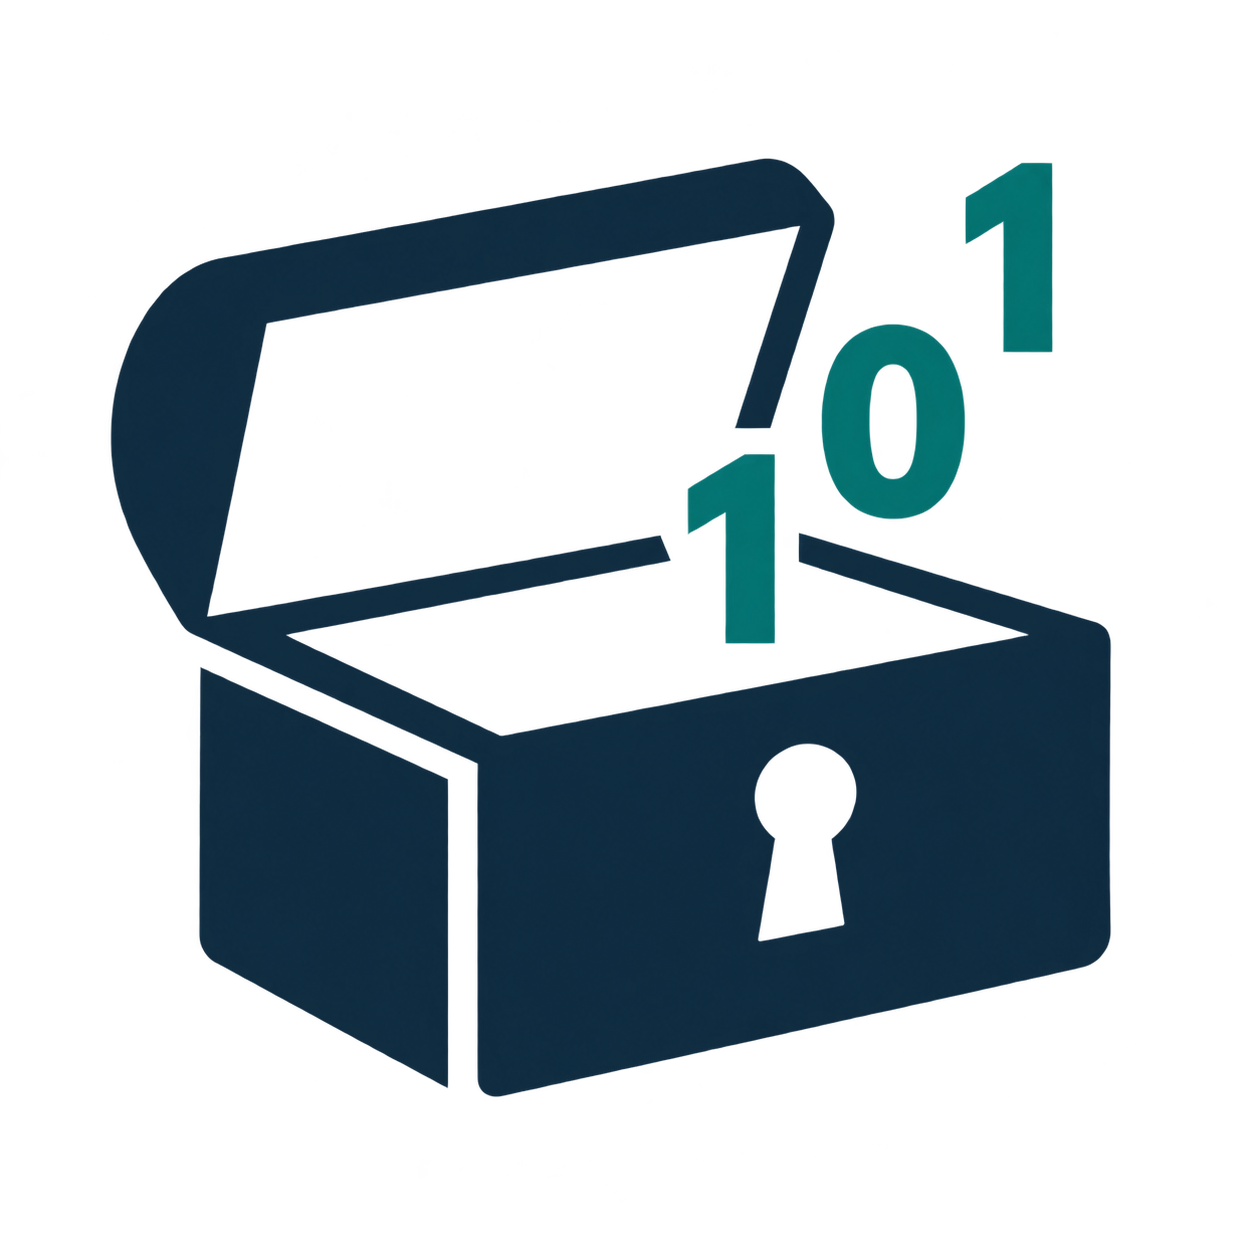
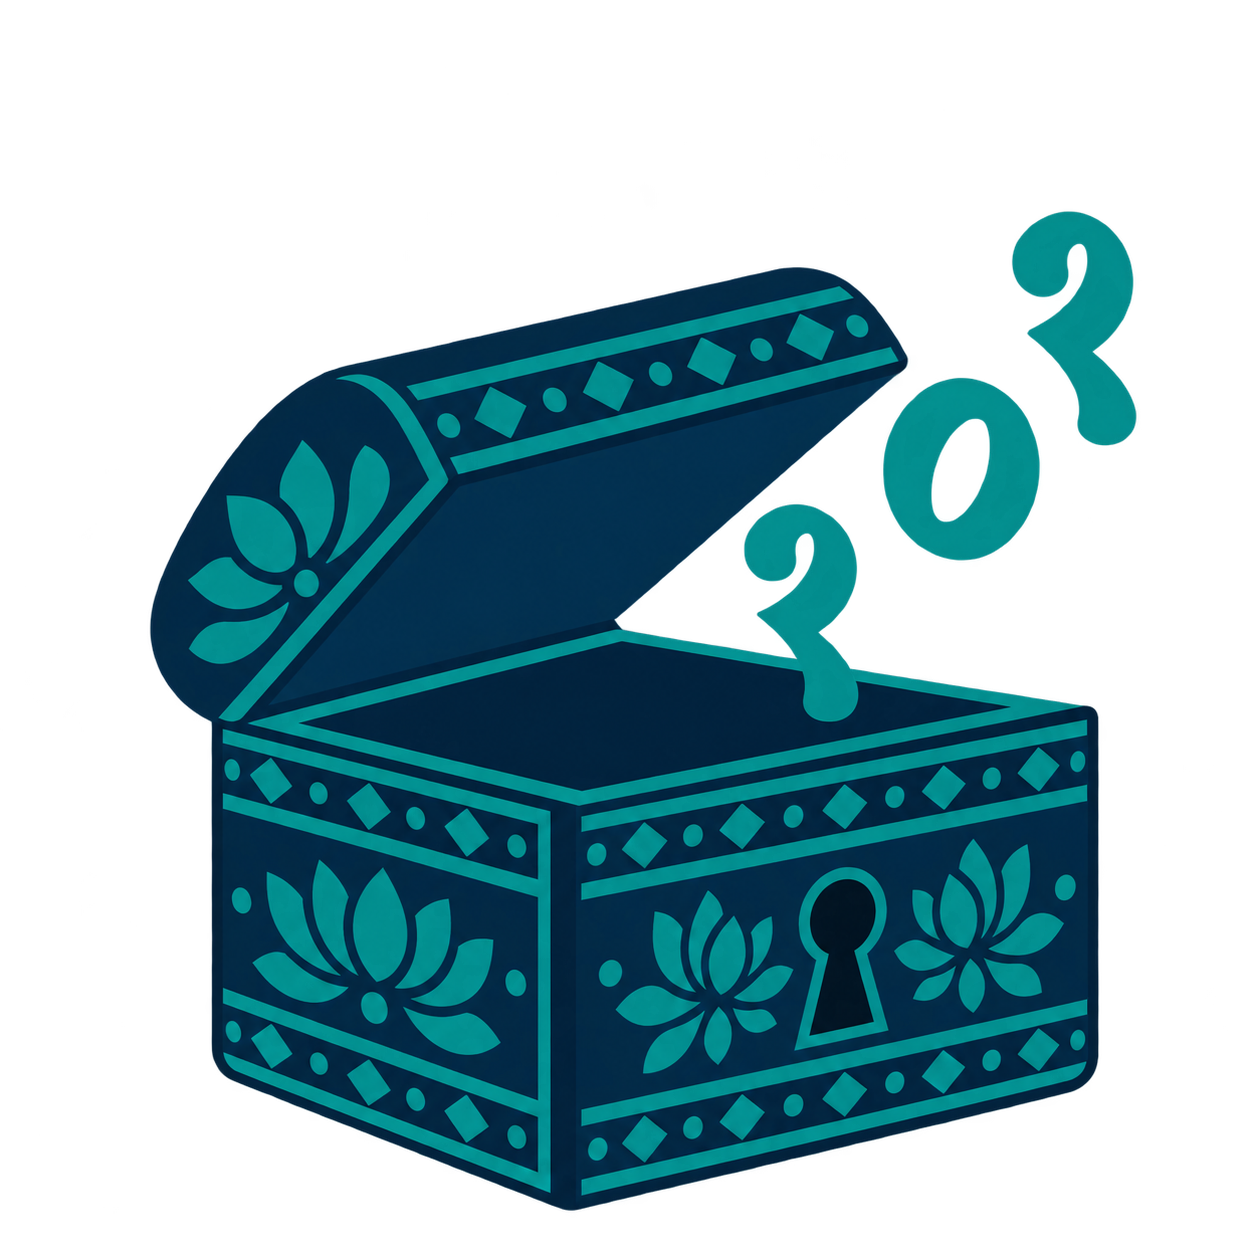
Refine Petika branding with Indian motifs and Devanagari digits

diff --git a/assets/brand/generation-prompts.md b/assets/brand/generation-prompts.md
@@ -1,0 +1,15 @@
+# Indian-inspired brand revision
+
+Generated with the built-in imagegen tool. All outputs preserve transparency.
+
+## Standalone light icon
+
+Use case: precise-object-edit. Edit the Petika standalone icon supplied as edit target. Retain the open chest, three-quarter perspective, central keyhole, clean geometric logo silhouette and navy #102B3F / teal #138A83 palette. Give the box a clearly Indian craft-inspired identity: restrained carved floral lotus rosettes and a repeating geometric decorative border inspired by Indian wooden keepsake boxes on the front, side and lid rim. Use broad simplified inlay shapes, not intricate hairlines, so the design remains legible as an app mark. Replace EVERY Western binary digit with Devanagari numerals: exactly three rising characters from bottom to top '१', '०', '१'. The १ glyph must visibly have its Devanagari curved form, never Latin 1. Keep these digits large, teal, clearly separated and rising from the open box. No other text, no wordmark, no religious symbols, no extra objects, no ground shadow. Square standalone icon with modest clear margin. Actual transparent background, crisp polished edges.
+
+## Dark icon
+
+Edit target image 1: the updated Petika Indian decorative chest icon. Make its dark-interface color variant. Preserve precisely the silhouette, floral lotus motifs, geometric inlay borders, keyhole and the three Devanagari digits १ ० १ in their positions. Change navy chest surfaces to ice white #E7F1F5; change teal decorations and numerals to saturated mint/teal #31B5A4 so motifs contrast against ice white. Interior and keyhole can remain dark navy #101C26. Transparent background, square layout, no wordmark, no Latin digits, no new elements. Same design only palette adaptation.
+
+## Horizontal wordmark
+
+Use case: precise-object-edit. Image 1 is the old Petika horizontal wordmark edit target; image 2 is the NEW icon to substitute into it. Replace the old plain chest and ALL its Western binary digits with image 2's Indian decorated navy/teal chest, lotus inlays, geometric borders, central keyhole, and exactly three rising Devanagari numerals १ ० १. Preserve image 1's bold navy 'Petika' Latin wordmark spelling and style, and horizontal icon-left text-right arrangement. Make a balanced horizontal logo with clear space between icon and wordmark and transparent background. No tagline, no additional text, no Western binary digits. Crisp polished artwork.

diff --git a/docs/branding.md b/docs/branding.md
@@ -4,7 +4,9 @@
 
 Petika's identity connects its small-box name with digital safekeeping. An open
 chest with a keyhole represents deliberate access to protected information. The
-ascending binary digits represent digital contents becoming available when unlocked.
+lotus inlays and geometric borders evoke Indian decorative keepsake boxes. The
+ascending binary digits use Devanagari **०** (zero) and **१** (one), connecting the
+Indian-inspired box with digital contents becoming available when unlocked.
 Use this as a brand metaphor, not an illustration of how encryption works.
 
 ## Assets
@@ -49,8 +51,7 @@ Describe unfinished features as planned and hybrid encryption as experimental.
 
 The web UI uses [light artwork](../assets/brand/petika-icon-light.png) in navy and
 teal, and [dark artwork](../assets/brand/petika-icon-dark.png) in ice white and mint.
-The dark raster has an ink background matched to the sidebar. The light raster is
-transparent. The wordmark is live theme-colored text in the UI, avoiding a navy
-wordmark on a dark surface. The original horizontal PNG remains for light-background
+Both theme rasters have transparent backgrounds. The wordmark is live theme-colored text in the UI, avoiding a navy
+wordmark on a dark surface. The horizontal PNG uses the same decorated chest for light-background
 print/document use. System theme and explicit appearance overrides switch the marks.
-Target dark mark colors: ice `#E7F1F5`, mint `#6EDBC9`, ground `#101C26`.
+Target dark mark colors: ice `#E7F1F5`, teal-mint `#31B5A4`, interior `#101C26`.

diff --git a/README.md b/README.md
@@ -2,7 +2,7 @@
 
 <picture>
   <source media="(prefers-color-scheme: dark)" srcset="assets/brand/petika-icon-dark.png">
-  <img src="assets/brand/petika-icon-light.png" alt="Petika — open chest with rising binary digits" width="140">
+  <img src="assets/brand/petika-icon-light.png" alt="Petika — Indian-patterned open chest with rising Devanagari binary digits" width="140">
 </picture>
 
 **Your secrets. Your infrastructure.**
